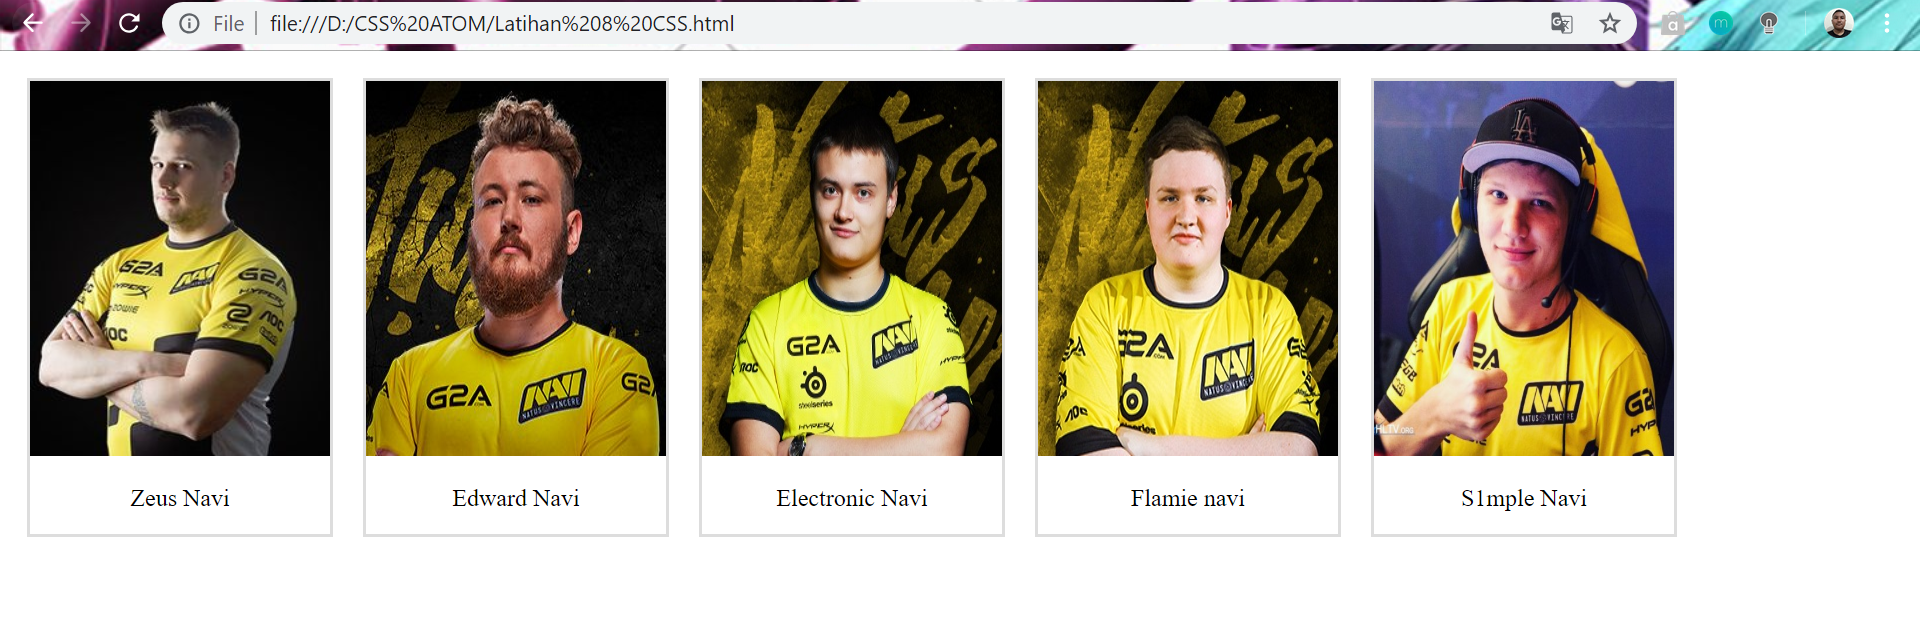
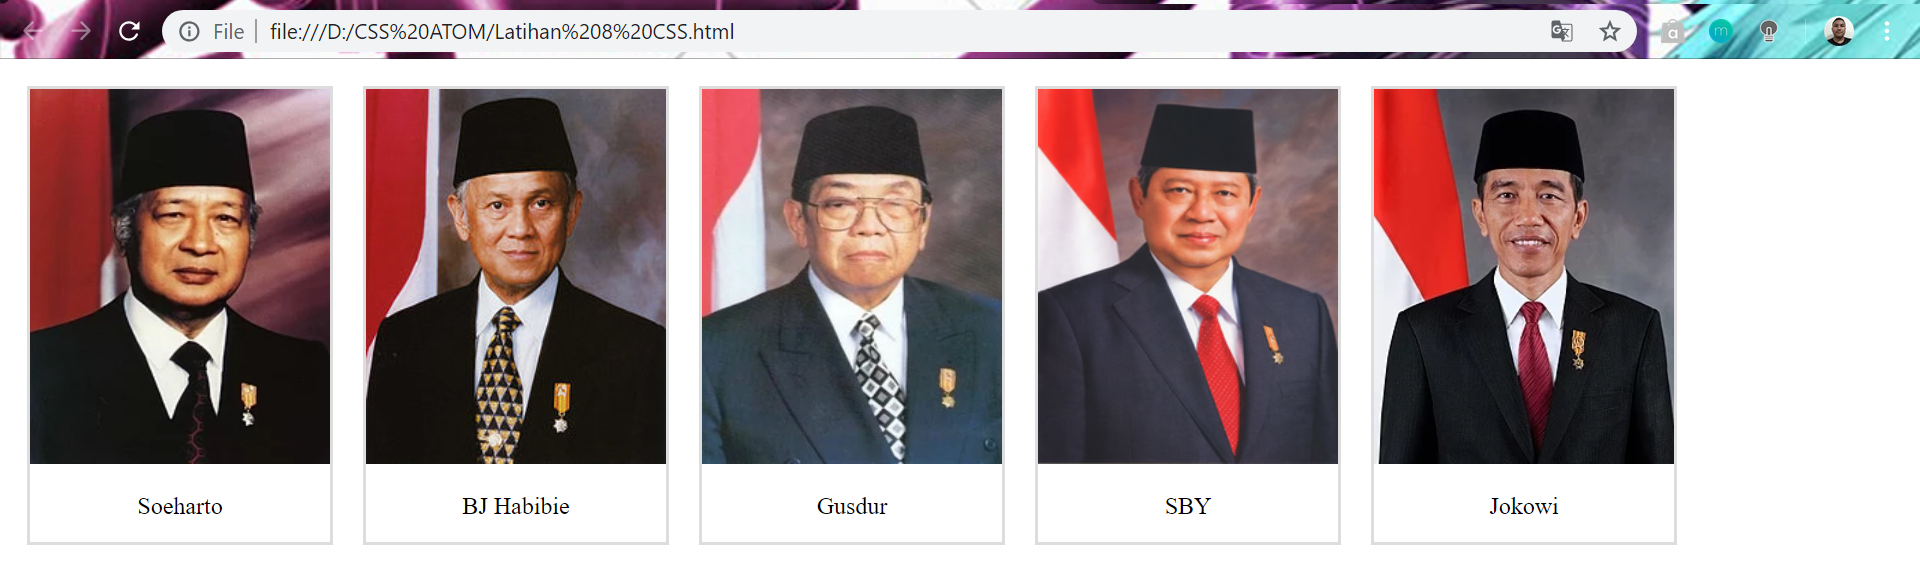
selesai dikerjakan

diff --git a/Latihan 8 CSS.html b/Latihan 8 CSS.html
@@ -26,24 +26,24 @@
   </head>
   <body>
     <div class="box">
-      <img src="Zeus.jpg">
-      <div class="deskripsi">Zeus Navi</div>
+      <img src="Soeharto.jpg">
+      <div class="deskripsi">Soeharto</div>
     </div>
     <div class="box">
-      <img src="Edward.jpg">
-      <div class="deskripsi">Edward Navi</div>
+      <img src="BJHabibie.jpg">
+      <div class="deskripsi">BJ Habibie</div>
       </div>
     <div class="box">
-      <img src="Electronic.jpg">
-      <div class="deskripsi">Electronic Navi</div>
+      <img src="Gusdur.jpg">
+      <div class="deskripsi">Gusdur</div>
     </div>
     <div class="box">
-      <img src="Flamie.jpg">
-      <div class="deskripsi">Flamie navi</div>
+      <img src="SBY.png">
+      <div class="deskripsi">SBY</div>
     </div>
     <div class="box">
-      <img src="S1mple.jpg">
-      <div class="deskripsi">S1mple Navi</div>
+      <img src="Jokowi.jpg">
+      <div class="deskripsi">Jokowi</div>
     </div>
   </body>
 </html>
